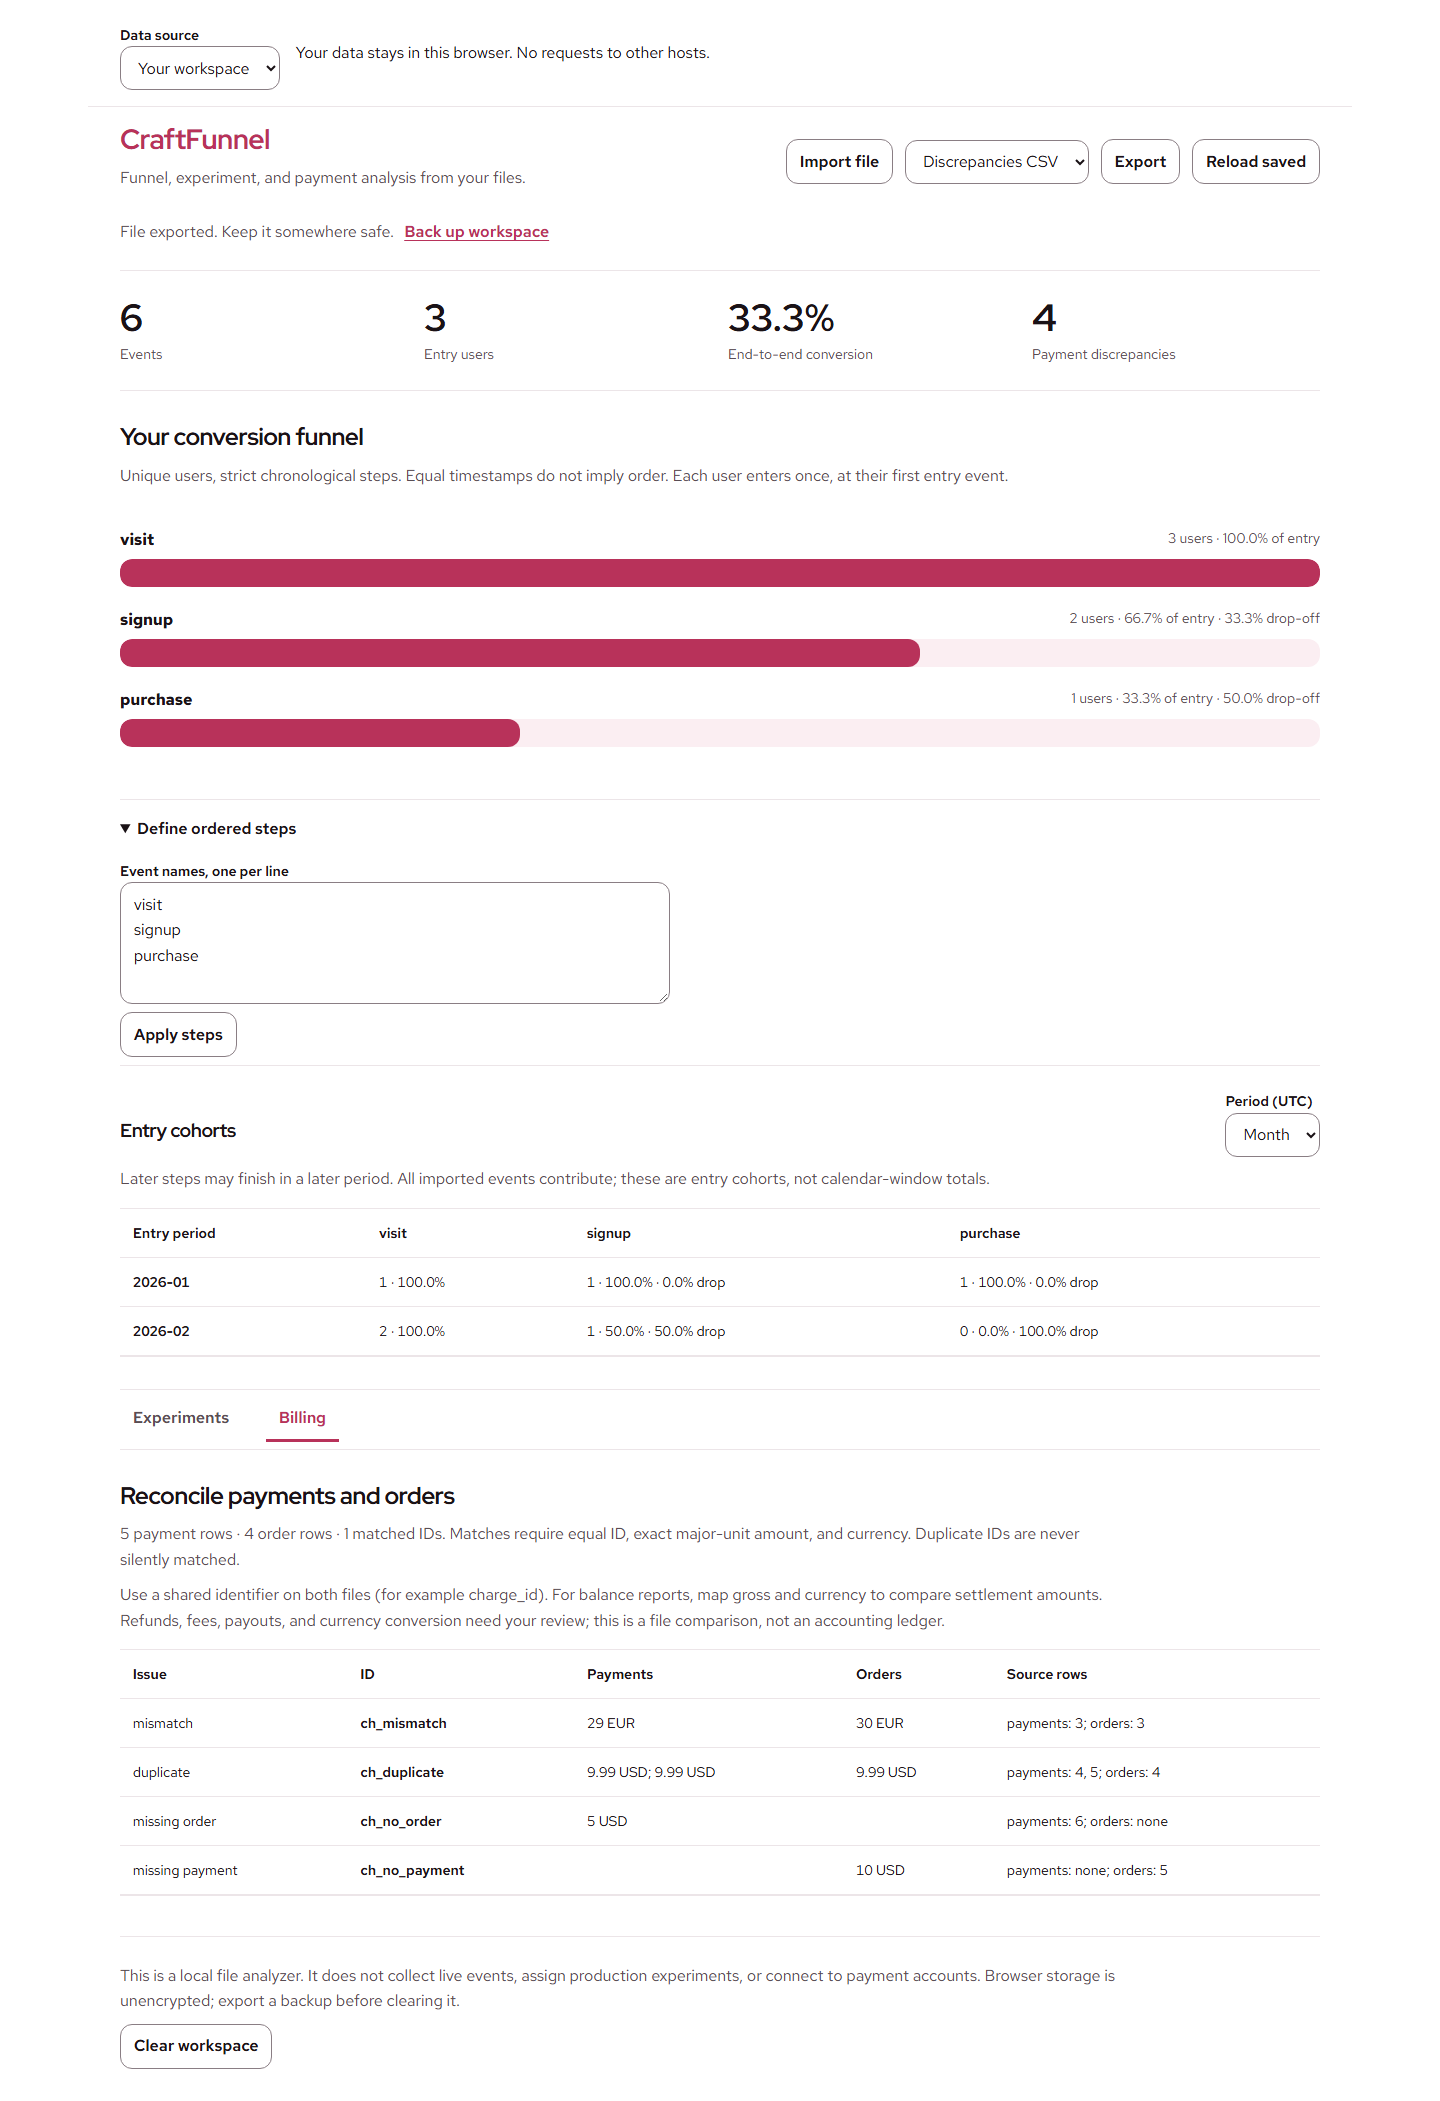
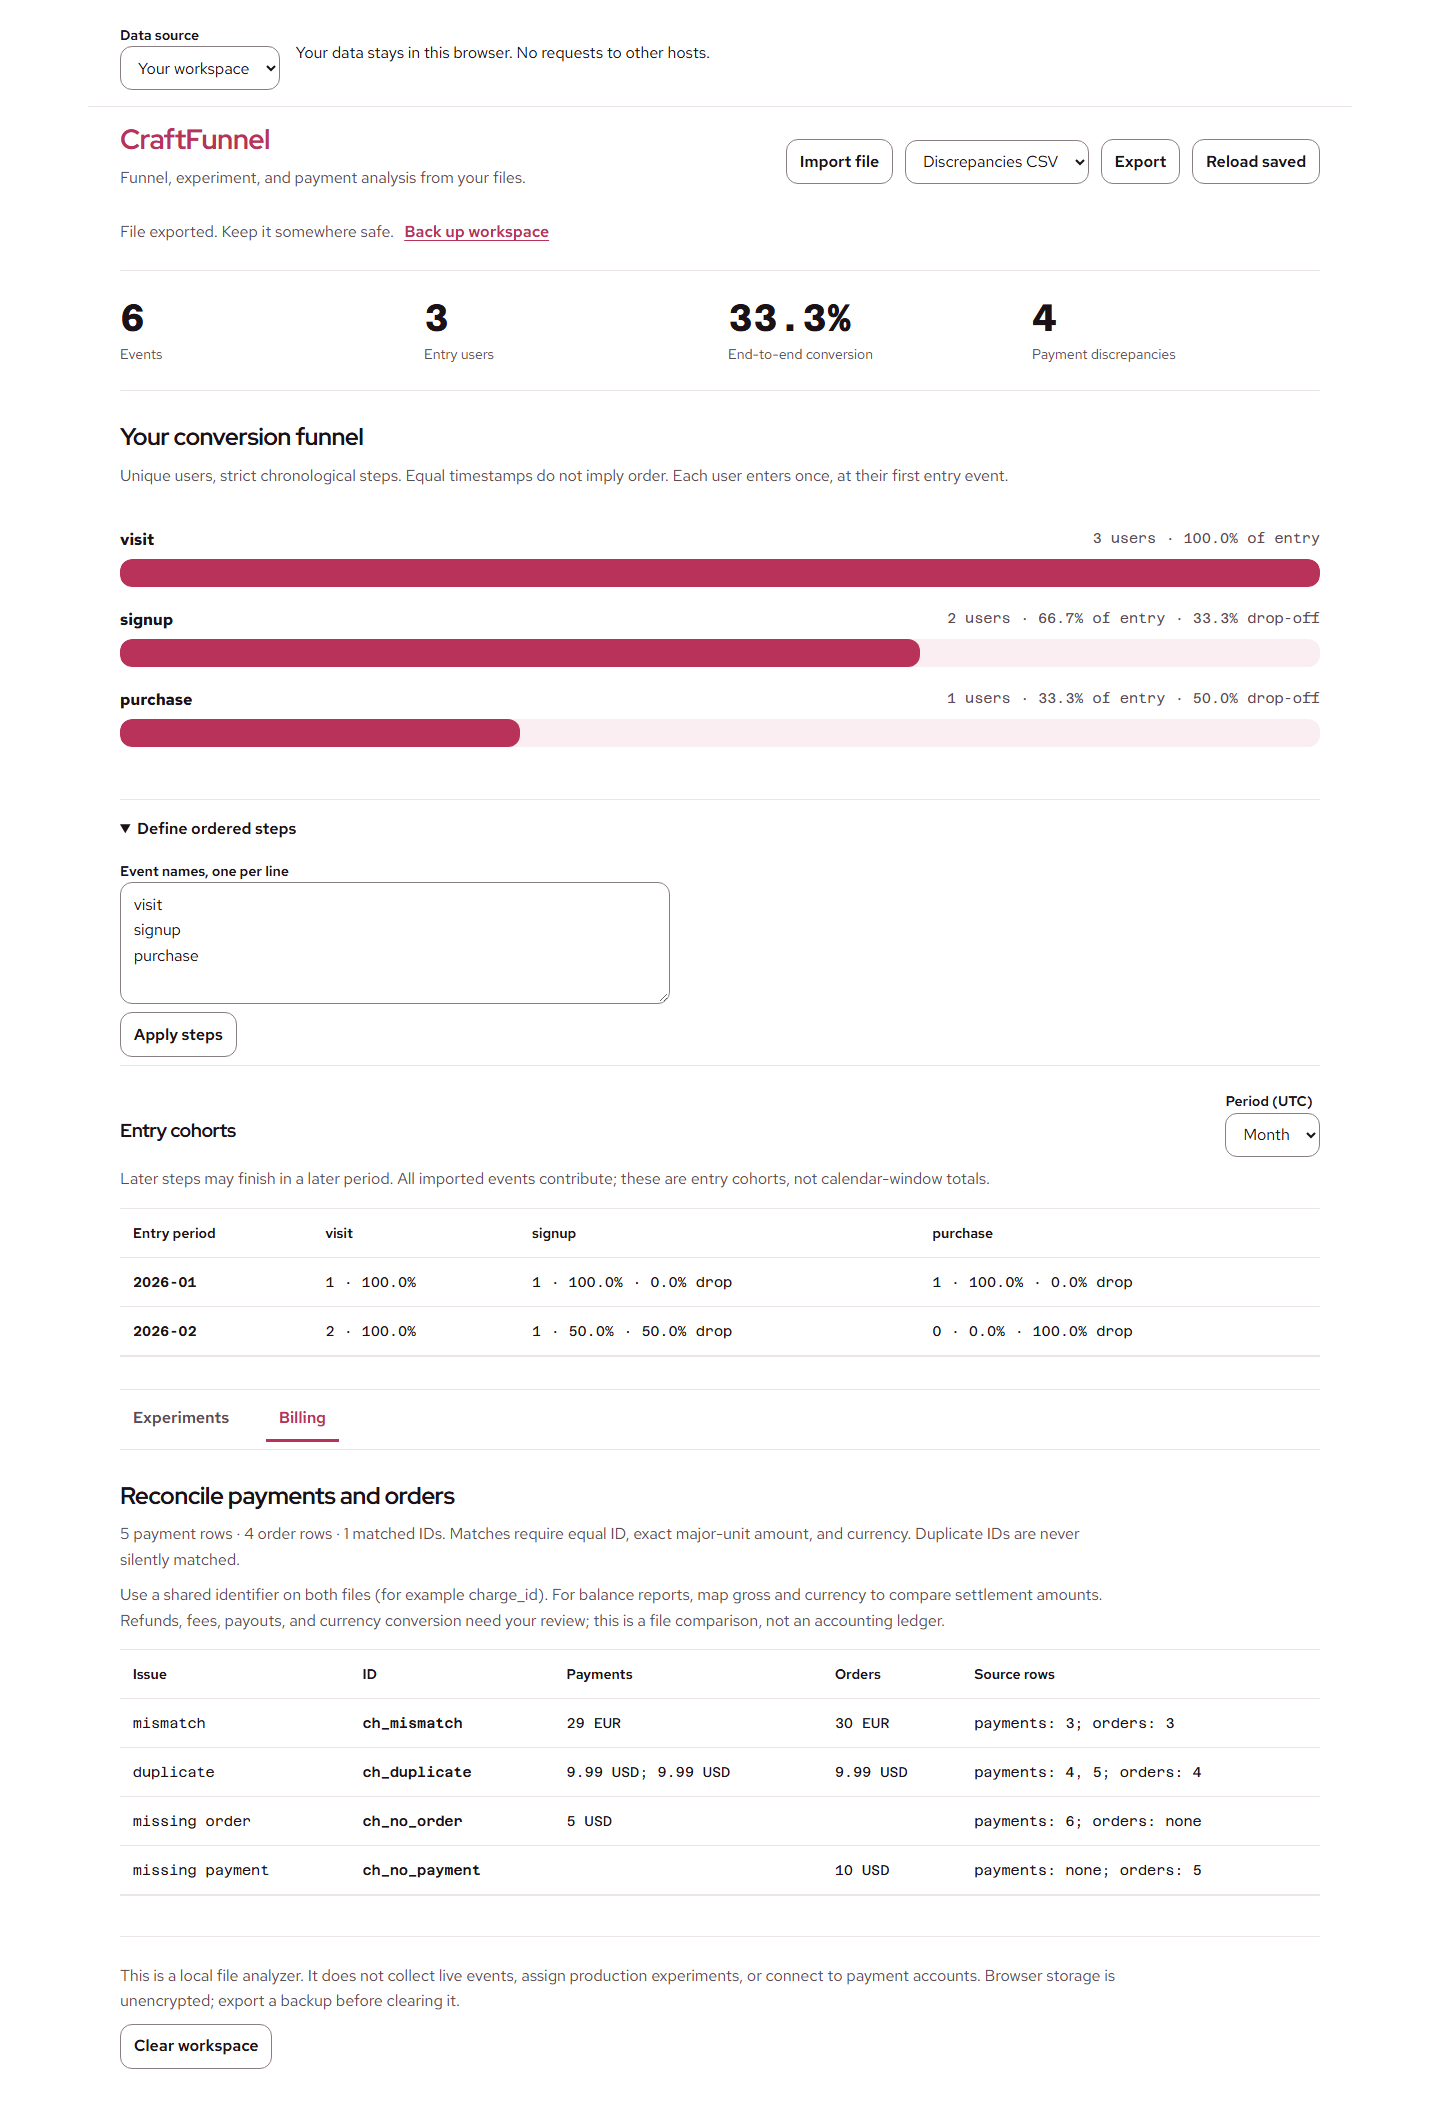
Set analysis counts and results in the numeric typeface

diff --git a/client/src/local/local.css b/client/src/local/local.css
@@ -15,7 +15,7 @@
 .local-status{min-height:44px}
 .local-analysis .link-btn{color:var(--accent);border:0;background:none;padding-inline:.4rem}
 .local-metrics{display:grid;grid-template-columns:repeat(4,1fr);border-block:1px solid var(--rule);padding:1.5rem 0;margin:1rem 0 2rem;gap:1rem}
-.local-metrics strong{display:block;font-family:var(--font-heading);font-size:clamp(24px,3vw,38px);line-height:1.2}
+.local-metrics strong{display:block;font-family:var(--font-mono);font-size:clamp(24px,3vw,38px);line-height:1.2}
 .local-metrics span{font-size:14px;color:var(--ink-2)}
 .local-funnel ol{list-style:none;padding:1rem 0}
 .local-funnel li{margin:.8rem 0 1.25rem}
@@ -42,3 +42,5 @@
 .local-dialog{background:var(--paper);border:1px solid var(--control);border-radius:12px;padding:1.5rem;width:720px;max-width:100%;max-height:90dvh;overflow:auto}
 .local-dialog input[type=file]{margin-bottom:1rem;white-space:normal}
 @media(max-width:640px){.local-metrics{grid-template-columns:repeat(2,1fr)}.local-actions{width:100%}.local-heading{align-items:flex-start}.local-grid{grid-template-columns:1fr}.local-dialog{padding:1rem}.local-heading p{font-size:14px}.local-source p{font-size:14px}}
+
+.local-metrics strong,.local-funnel li span,.local-table td,.local-table th[scope=row],.local-result{font-family:var(--font-mono);font-variant-numeric:tabular-nums}
